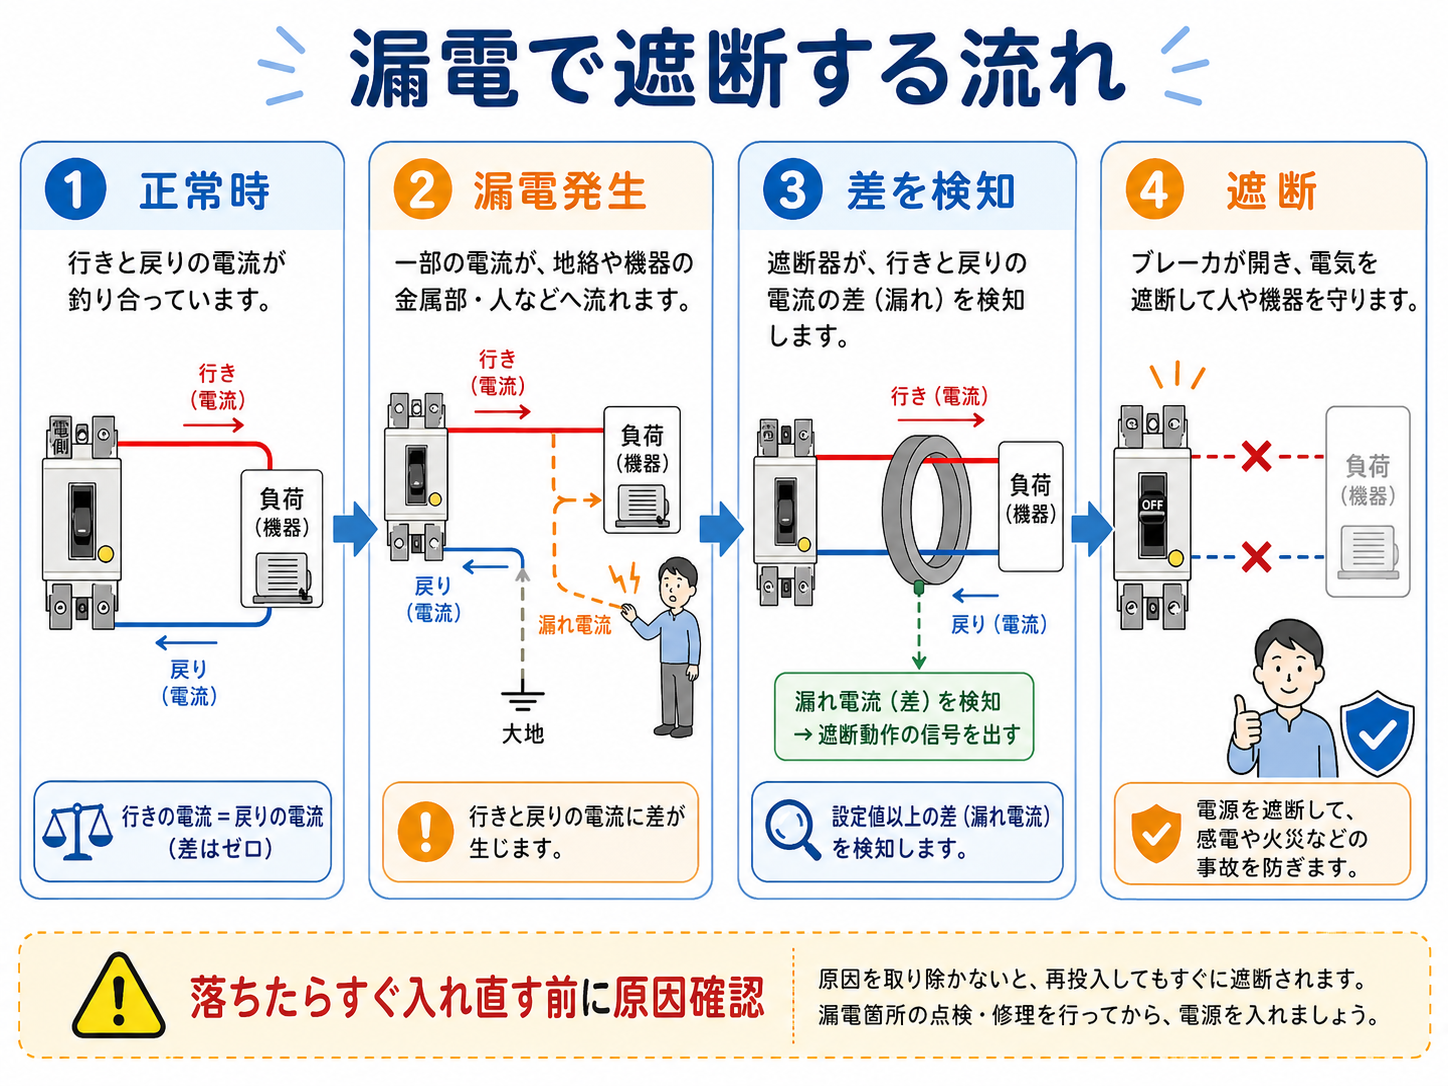
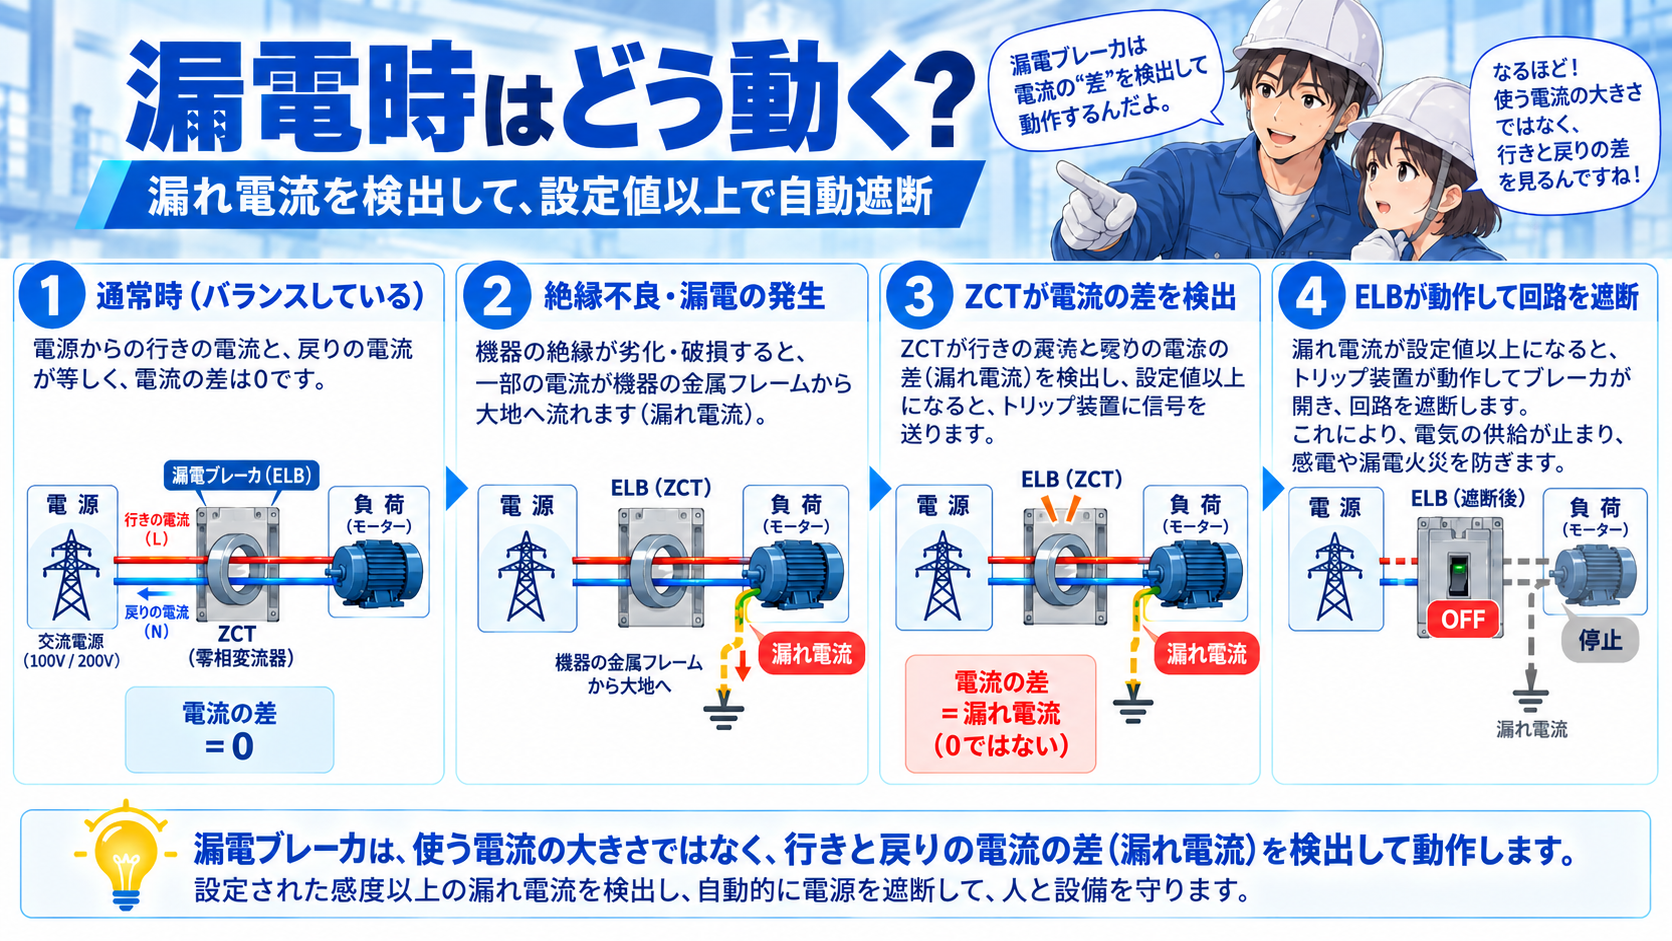
Prepare final earth leakage breaker refresh

diff --git a/articles/earth-leakage-breaker-basic.html b/articles/earth-leakage-breaker-basic.html
@@ -3,18 +3,21 @@
 <head>
   <meta charset="utf-8">
   <meta name="viewport" content="width=device-width, initial-scale=1">
-  <title>漏電ブレーカとは？漏電を検知して人と設備を守る仕組みをやさしく解説</title>
-  <meta name="description" content="漏電ブレーカとは何かを初心者向けにやさしく整理。漏電を検知して遮断する仕組み、感電や漏電火災を防ぐ役割、ノーヒューズブレーカとの違い、現場での見方まで解説します。">
+  <title>漏電ブレーカとは？ELBの仕組み・感度電流・NFBとの違いをやさしく解説</title>
+  <meta name="description" content="漏電ブレーカ（ELB/ELCB）とは何かを初心者向けに整理。ZCTで漏れ電流を検出する仕組み、定格感度電流、テストボタン、ノーヒューズブレーカとの違い、落ちたときの確認ポイントまで解説します。">
   <link rel="canonical" href="https://denkicontrol.com/articles/earth-leakage-breaker-basic.html">
   <link rel="alternate" hreflang="ja" href="https://denkicontrol.com/articles/earth-leakage-breaker-basic.html">
   <link rel="alternate" hreflang="en" href="https://denkicontrol.com/en/articles/earth-leakage-breaker-basic.html">
   <link rel="alternate" hreflang="x-default" href="https://denkicontrol.com/articles/earth-leakage-breaker-basic.html">
   <meta property="og:type" content="article">
-  <meta property="og:title" content="漏電ブレーカとは？漏電を検知して人と設備を守る仕組みをやさしく解説">
-  <meta property="og:description" content="漏電ブレーカの役割、漏電で遮断する流れ、ノーヒューズブレーカとの違いをやさしく整理します。">
+  <meta property="og:title" content="漏電ブレーカとは？ELBの仕組み・感度電流・NFBとの違い">
+  <meta property="og:description" content="ZCTで漏電を検出する仕組み、感度電流、NFBとの違い、落ちたときの確認ポイントを現場目線で整理します。">
   <meta property="og:url" content="https://denkicontrol.com/articles/earth-leakage-breaker-basic.html">
-  <meta property="og:image" content="https://denkicontrol.com/assets/images/earth-leakage-breaker-basic/earth-leakage-breaker-overview.png">
+  <meta property="og:image" content="https://denkicontrol.com/assets/images/earth-leakage-breaker-basic/earth-leakage-breaker-ogp.png">
   <meta name="twitter:card" content="summary_large_image">
+  <meta name="twitter:title" content="漏電ブレーカとは？ELBの仕組み・感度電流・NFBとの違い">
+  <meta name="twitter:description" content="ZCTで漏電を検出する仕組み、感度電流、NFBとの違い、落ちたときの確認ポイントをやさしく整理。">
+  <meta name="twitter:image" content="https://denkicontrol.com/assets/images/earth-leakage-breaker-basic/earth-leakage-breaker-ogp.png">
   <meta name="theme-color" content="#f8fbff">
   <link rel="icon" type="image/png" sizes="16x16" href="../assets/images/common/site-logo-dcl-16.png">
   <link rel="icon" type="image/png" sizes="32x32" href="../assets/images/common/site-logo-dcl-32.png">
@@ -92,7 +95,7 @@
       content:"";
       position:absolute;
       inset:0;
-      background:url("../assets/images/earth-leakage-breaker-basic/earth-leakage-breaker-overview.png") right center / auto 100% no-repeat;
+      background:url("../assets/images/earth-leakage-breaker-basic/earth-leakage-breaker-hero.png") right center / auto 100% no-repeat;
       opacity:.32;
       pointer-events:none;
       z-index:0;
@@ -560,7 +563,7 @@
           #f8fbff;
       }
       .article-hero::before{
-        background:url("../assets/images/earth-leakage-breaker-basic/earth-leakage-breaker-overview.png") right -28px bottom -14px / 162% auto no-repeat;
+        background:url("../assets/images/earth-leakage-breaker-basic/earth-leakage-breaker-hero.png") right -28px bottom -14px / 162% auto no-repeat;
         opacity:.2;
       }
       .article-hero::after{
@@ -605,7 +608,7 @@
           #f8fbff;
       }
       .article-hero::before{
-        background:url("../assets/images/earth-leakage-breaker-basic/earth-leakage-breaker-overview.png") right center / auto 92% no-repeat;
+        background:url("../assets/images/earth-leakage-breaker-basic/earth-leakage-breaker-hero.png") right center / auto 92% no-repeat;
         opacity:.24;
       }
       .article-hero::after{
@@ -651,7 +654,7 @@
     }
     @media (max-width:640px){
       .article-hero::before{
-        background:url("../assets/images/earth-leakage-breaker-basic/earth-leakage-breaker-overview.png") right -40px bottom -20px / 178% auto no-repeat;
+        background:url("../assets/images/earth-leakage-breaker-basic/earth-leakage-breaker-hero.png") right -40px bottom -20px / 178% auto no-repeat;
         opacity:.14;
       }
       .article-hero::after{
@@ -1376,10 +1379,10 @@ body{
     <section class="article-hero" aria-labelledby="page-title">
       <div class="article-hero-copy">
         <span class="hero-label">回路の基礎</span>
-        <h1 id="page-title">漏電ブレーカとは？<br>漏電を検知して人と設備を守る仕組みをやさしく解説</h1>
+        <h1 id="page-title">漏電ブレーカ（ELB）とは？<br>仕組み・感度電流・NFBとの違いをやさしく解説</h1>
         <p class="hero-lead">
-          漏電ブレーカは、電気が本来の回路から漏れている状態を検知し、
-          感電や漏電火災などの事故を防ぐために電源を遮断する保護機器です。
+          漏電ブレーカ（ELB）は、ZCT（零相変流器）で行きと戻りの電流差を監視し、
+          規定以上の漏れ電流を検出したときに回路を遮断する保護機器です。
         </p>
         <div class="hero-actions">
           <a class="btn btn-primary" href="#conclusion">先に結論から読む</a>
@@ -1412,7 +1415,7 @@ body{
         <ul>
           <li>漏電ブレーカは<span class="mark">漏電を検知して電気を遮断する保護機器</span>です。</li>
           <li>行きと戻りの電流差を見て、<span class="mark">漏れ電流があるか</span>を判断します。</li>
-          <li>NFBとは役割が違い、人や設備を漏電事故から守る目的で使います。</li>
+          <li>一般的な漏電遮断器は過電流保護も備えるため、NFBとの違いは<span class="mark">漏電保護の有無</span>を軸に見ると整理しやすいです。</li>
         </ul>
       </section>
     </section>
@@ -1423,6 +1426,7 @@ body{
         <a href="#conclusion">先に結論</a>
         <a href="#overview">漏電ブレーカとは</a>
         <a href="#flow">基本の動き</a>
+        <a href="#sensitivity">種類と選定のポイント</a>
         <a href="#nfb">NFBとの違い</a>
         <a href="#attention">現場で見る注意点</a>
         <a href="#summary">まとめ</a>
@@ -1438,8 +1442,9 @@ body{
             <span class="mark">感電や漏電火災を防ぐために電源を遮断する保護機器</span>です。
           </p>
           <p>
-            ノーヒューズブレーカが過電流や短絡を主に見るのに対して、
-            漏電ブレーカは「電気の漏れ」を見ます。ここを分けて考えると、役割がかなり整理しやすくなります。
+            漏電遮断器には漏電保護機能があり、一般的な製品では過電流・短絡の保護も備えます。
+            一方、NFB（配線用遮断器）は過電流・短絡を保護しますが、通常は漏電検出機能を持ちません。
+            <span class="mark">「漏電を検出して遮断できるか」</span>を軸に見ると違いを整理しやすくなります。
           </p>
 
           <div class="talk-thread" aria-label="会話でポイント整理">
@@ -1466,7 +1471,7 @@ body{
                 <img src="../assets/images/guide-characters/friendly_advice_with_a_raised_finger.png" alt="先輩">
               </div>
               <div class="talk-bubble">
-                <p><span class="talk-name talk-name--senpai">先輩</span> そう。<strong>過電流・短絡を見るNFB</strong>と、<strong>漏電を見る漏電ブレーカ</strong>は役割を分けて覚えるといいね。</p>
+                <p><span class="talk-name talk-name--senpai">先輩</span> そう。ただし漏電ブレーカも一般的には過電流保護を持つよ。<strong>漏電保護まで備えているか</strong>を確認すると違いが分かりやすいね。</p>
               </div>
             </div>
           </div>
@@ -1475,8 +1480,8 @@ body{
         <section class="section-card" id="overview">
           <h2>漏電ブレーカとは？</h2>
           <p>
-            漏電ブレーカは、電気が本来の電線や回路を通らず、機器の金属部や大地側へ漏れている状態を検知するブレーカです。
-            漏電を検知すると、回路を遮断して電気の供給を止めます。
+            漏電ブレーカ（漏電遮断器、ELB/ELCB）は、電気が本来の回路から機器の金属部や大地側へ漏れたとき、
+            ZCT（零相変流器）で残留電流を検出し、内部の引き外し機構を動作させて回路を遮断します。
           </p>
           <p>
             漏電は、感電事故や漏電火災の原因になることがあります。
@@ -1484,9 +1489,9 @@ body{
           </p>
 
           <figure class="article-figure">
-            <img src="../assets/images/earth-leakage-breaker-basic/earth-leakage-breaker-overview.png" alt="漏電ブレーカとは何かを示す分電盤内と漏電検知の図解" loading="lazy" decoding="async">
+            <img class="article-lightbox-target" src="../assets/images/earth-leakage-breaker-basic/earth-leakage-breaker-overview.png" alt="漏電ブレーカの全体像と、ZCTで行きと戻りの電流差を検出して遮断する仕組みをまとめた図。" loading="lazy" decoding="async" tabindex="0" role="button" aria-label="漏電ブレーカの仕組み図を拡大表示">
             <figcaption>
-              漏電ブレーカは、漏電を検知して電源を遮断し、人や設備を守るための保護機器です。
+              漏電ブレーカは、ZCTで行きと戻りの電流差を監視し、漏れ電流を検出すると回路を遮断します。
             </figcaption>
           </figure>
 
@@ -1494,7 +1499,7 @@ body{
             <h3>「電気が漏れていないかを見張るブレーカ」と見ると分かりやすい</h3>
             <p>
               漏電ブレーカは、単に電気の使いすぎを見るだけではありません。
-              電気が本来の通り道から外へ漏れていないかを見張り、異常時にすばやく遮断します。
+              電気が本来の通り道から外へ漏れていないかを見張り、設定された感度と動作特性に従って遮断します。
             </p>
           </div>
         </section>
@@ -1508,7 +1513,7 @@ body{
           </p>
 
           <figure class="article-figure">
-            <img src="../assets/images/earth-leakage-breaker-basic/earth-leakage-breaker-trip-flow.png" alt="漏電ブレーカが漏電を検知して遮断する流れ" loading="lazy" decoding="async">
+            <img class="article-lightbox-target" src="../assets/images/earth-leakage-breaker-basic/earth-leakage-breaker-trip-flow.png" alt="正常時から漏電発生、ZCTによる差電流検出、ELBによる回路遮断までの流れを4段階で示した図。" loading="lazy" decoding="async" tabindex="0" role="button" aria-label="漏電時の遮断フロー図を拡大表示">
             <figcaption>
               行きと戻りの電流に差が出ると、漏電ブレーカが漏れ電流として検知し、回路を遮断します。
             </figcaption>
@@ -1525,7 +1530,7 @@ body{
             </div>
             <div class="check-item">
               <h3>3. 電流の差を検知</h3>
-              <p>行きと戻りの電流差を漏れ電流として検知します。</p>
+              <p>ZCTを通る各線の電流の合計がゼロからずれた量を、残留電流（漏れ電流）として検出します。</p>
             </div>
             <div class="check-item">
               <h3>4. 電源を遮断</h3>
@@ -1542,19 +1547,56 @@ body{
           </div>
         </section>
 
-        <section class="section-card" id="nfb">
-          <h2>漏電ブレーカとノーヒューズブレーカの違い</h2>
+        <section class="section-card" id="sensitivity">
+          <h2>漏電ブレーカの種類・定格感度電流・選定のポイント</h2>
           <p>
-            漏電ブレーカとノーヒューズブレーカは、見た目が似ていることがあります。
-            ただし、何を見て、何を守るのかが違います。
+            漏電ブレーカは、検出する漏れ電流の波形、<strong>定格感度電流</strong>、動作時間などで仕様が分かれます。
+            接続する機器や設置環境、求める保護目的に合わせて選定することが重要です。
           </p>
 
           <figure class="article-figure">
-            <img src="../assets/images/earth-leakage-breaker-basic/earth-leakage-breaker-vs-no-fuse-breaker.png" alt="漏電ブレーカとノーヒューズブレーカの違いを比較する図解" loading="lazy" decoding="async">
+            <img class="article-lightbox-target" src="../assets/images/earth-leakage-breaker-basic/earth-leakage-breaker-selection.png" alt="漏電ブレーカのAC形とA形、感度電流、動作時間、選定時の確認ポイントをまとめた図。" loading="lazy" decoding="async" tabindex="0" role="button" aria-label="漏電ブレーカの種類と選定ポイント図を拡大表示">
             <figcaption>
-              漏電ブレーカは漏電を見て人や設備を守り、ノーヒューズブレーカは過電流や短絡から配線・機器を守ります。
+              図中の感度電流・動作時間・用途は、種類を理解するための代表例です。正式な区分、定格値、適用できる負荷はメーカー・機種・設備条件で異なるため、実際の選定では製品仕様書や適用規格を確認します。
             </figcaption>
           </figure>
+
+          <div class="note-box">
+            <h3>インバータや電子機器を含む回路では検出方式も確認</h3>
+            <p>
+              漏れ電流の波形は負荷によって変わるため、AC形・A形などの適用を名称だけで決めないことが大切です。
+              使用する機器の特性と、漏電ブレーカメーカーが示す適用条件を照合します。
+            </p>
+          </div>
+
+          <p>
+            定格感度電流は漏電検出の感度を示す値で、用途に応じて複数の仕様があります。
+          </p>
+          <div class="check-grid">
+            <div class="check-item">
+              <h3>15mA・30mA</h3>
+              <p>高感度形として、人が触れるおそれのある回路などで使われる代表的な範囲です。</p>
+            </div>
+            <div class="check-item">
+              <h3>100mA以上</h3>
+              <p>設備・回路条件に応じて選ばれる中感度形などがあります。値だけで用途を決めず、設計条件とメーカー仕様を確認します。</p>
+            </div>
+          </div>
+          <div class="note-box">
+            <h3>30mAなら何にでも使える、ではない</h3>
+            <p>
+              必要な感度や動作時間は、感電保護・漏電火災対策・常時漏洩電流・上位下位の保護協調などで変わります。
+              実際の選定は設備仕様、適用規格、メーカー資料に従って行います。
+            </p>
+          </div>
+        </section>
+
+        <section class="section-card" id="nfb">
+          <h2>漏電ブレーカとノーヒューズブレーカの違い</h2>
+          <p>
+            漏電ブレーカとノーヒューズブレーカは見た目が似ていますが、漏電保護機能の有無が大きな違いです。
+            一般的な漏電遮断器は、漏電保護に加えて過電流・短絡保護も備えます。
+          </p>
 
           <div class="table-wrap">
             <table>
@@ -1569,15 +1611,15 @@ body{
               <tbody>
                 <tr>
                   <td>漏電ブレーカ</td>
-                  <td>漏電</td>
-                  <td>感電・漏電火災対策</td>
-                  <td>漏電時</td>
+                  <td>漏電（＋一般的には過電流・短絡）</td>
+                  <td>漏電保護＋回路保護</td>
+                  <td>漏電時／過負荷・短絡時※機種仕様による</td>
                 </tr>
                 <tr>
                   <td>ノーヒューズブレーカ</td>
                   <td>過電流・短絡</td>
                   <td>配線・機器の過電流保護</td>
-                  <td>過負荷・短絡時</td>
+                  <td>過負荷・短絡時（通常は漏電では動作しない）</td>
                 </tr>
               </tbody>
             </table>
@@ -1589,7 +1631,7 @@ body{
                 <img src="../assets/images/guide-characters/curious_worker_with_a_cheerful_expression.png" alt="新人">
               </div>
               <div class="talk-bubble">
-                <p><span class="talk-name talk-name--kouhai">新人</span> 漏電ブレーカは漏電、ノーヒューズブレーカは過電流や短絡を見る。こう分ければいいですか？</p>
+                <p><span class="talk-name talk-name--kouhai">新人</span> 漏電ブレーカは「漏電も見られる遮断器」、NFBは「過電流・短絡を守る遮断器」と覚える方が正確ですか？</p>
               </div>
             </div>
 
@@ -1598,7 +1640,7 @@ body{
                 <img src="../assets/images/guide-characters/friendly_worker_with_helmet_and_smile.png" alt="先輩">
               </div>
               <div class="talk-bubble">
-                <p><span class="talk-name talk-name--senpai">先輩</span> その分け方で大丈夫。<strong>役割が違うので、同じものではない</strong>と覚えておくと現場でも迷いにくいよ。</p>
+                <p><span class="talk-name talk-name--senpai">先輩</span> そう。あとは本体の表示で<strong>定格感度電流・テストボタン・型式</strong>を確認すると、漏電保護の有無を判断しやすいよ。</p>
               </div>
             </div>
           </div>
@@ -1610,6 +1652,21 @@ body{
             漏電ブレーカが落ちたときは、すぐに入れ直す前に、漏電原因を確認することが大事です。
             水濡れ、機器の劣化、配線の傷、端子部の汚れなどが原因になることがあります。
           </p>
+
+          <figure class="article-figure">
+            <img class="article-lightbox-target" src="../assets/images/earth-leakage-breaker-basic/earth-leakage-breaker-field-check.png" alt="漏電ブレーカ本体の表示、テストボタン、トリップ原因の確認、復帰時の注意点をまとめた図。" loading="lazy" decoding="async" tabindex="0" role="button" aria-label="漏電ブレーカ本体の見方と確認ポイント図を拡大表示">
+            <figcaption>
+              本体表示の位置や内容、TESTボタンの操作条件・点検周期はメーカーや機種で異なります。図の数値は表示例として見て、実機では製品の取扱説明書と設備の管理手順を確認します。
+            </figcaption>
+          </figure>
+
+          <div class="danger-box">
+            <h3>復帰操作より先に、原因と安全状態を確認する</h3>
+            <p>
+              トリップ原因が不明な場合や繰り返し遮断する場合は、むやみに復帰を繰り返さず、設備担当者や有資格者の判断を仰ぎます。
+              復旧方法は設備ごとの安全手順とメーカー資料に従ってください。
+            </p>
+          </div>
 
           <ul class="simple-list">
             <li>水まわりや屋外機器で漏電していないか</li>
@@ -1630,8 +1687,8 @@ body{
           <div class="note-box">
             <h3>テストボタンの役割も知っておく</h3>
             <p>
-              漏電ブレーカには、正常に動作するか確認するためのテストボタンが付いていることがあります。
-              点検方法や頻度は、設備の管理ルールやメーカーの説明に従って確認します。
+              漏電ブレーカには、引き外し動作を確認するためのテストボタンが付いています。
+              ただしテストボタンは「回路全体に漏電がないこと」を証明するものではありません。点検方法や頻度は、設備の管理ルールとメーカー説明に従います。
             </p>
           </div>
         </section>
@@ -1643,8 +1700,8 @@ body{
             感電や漏電火災などの事故を防ぐために電源を遮断する保護機器です。
           </p>
           <p>
-            ノーヒューズブレーカとは、見ている異常が違います。
-            漏電ブレーカは漏電、ノーヒューズブレーカは過電流や短絡を見るものとして整理すると分かりやすいです。
+            一般的な漏電遮断器は漏電保護に加えて過電流・短絡保護も備えます。
+            NFBとの違いは、<strong>漏電を検出して遮断する機能を持つか</strong>を軸に整理すると分かりやすいです。
           </p>
 
           <div class="article-footer-nav">
@@ -1679,6 +1736,7 @@ body{
             <li><a href="#conclusion">先に結論</a></li>
             <li><a href="#overview">漏電ブレーカとは</a></li>
             <li><a href="#flow">基本の動き</a></li>
+            <li><a href="#sensitivity">種類と選定のポイント</a></li>
             <li><a href="#nfb">NFBとの違い</a></li>
             <li><a href="#attention">現場で見る注意点</a></li>
             <li><a href="#summary">まとめ</a></li>
